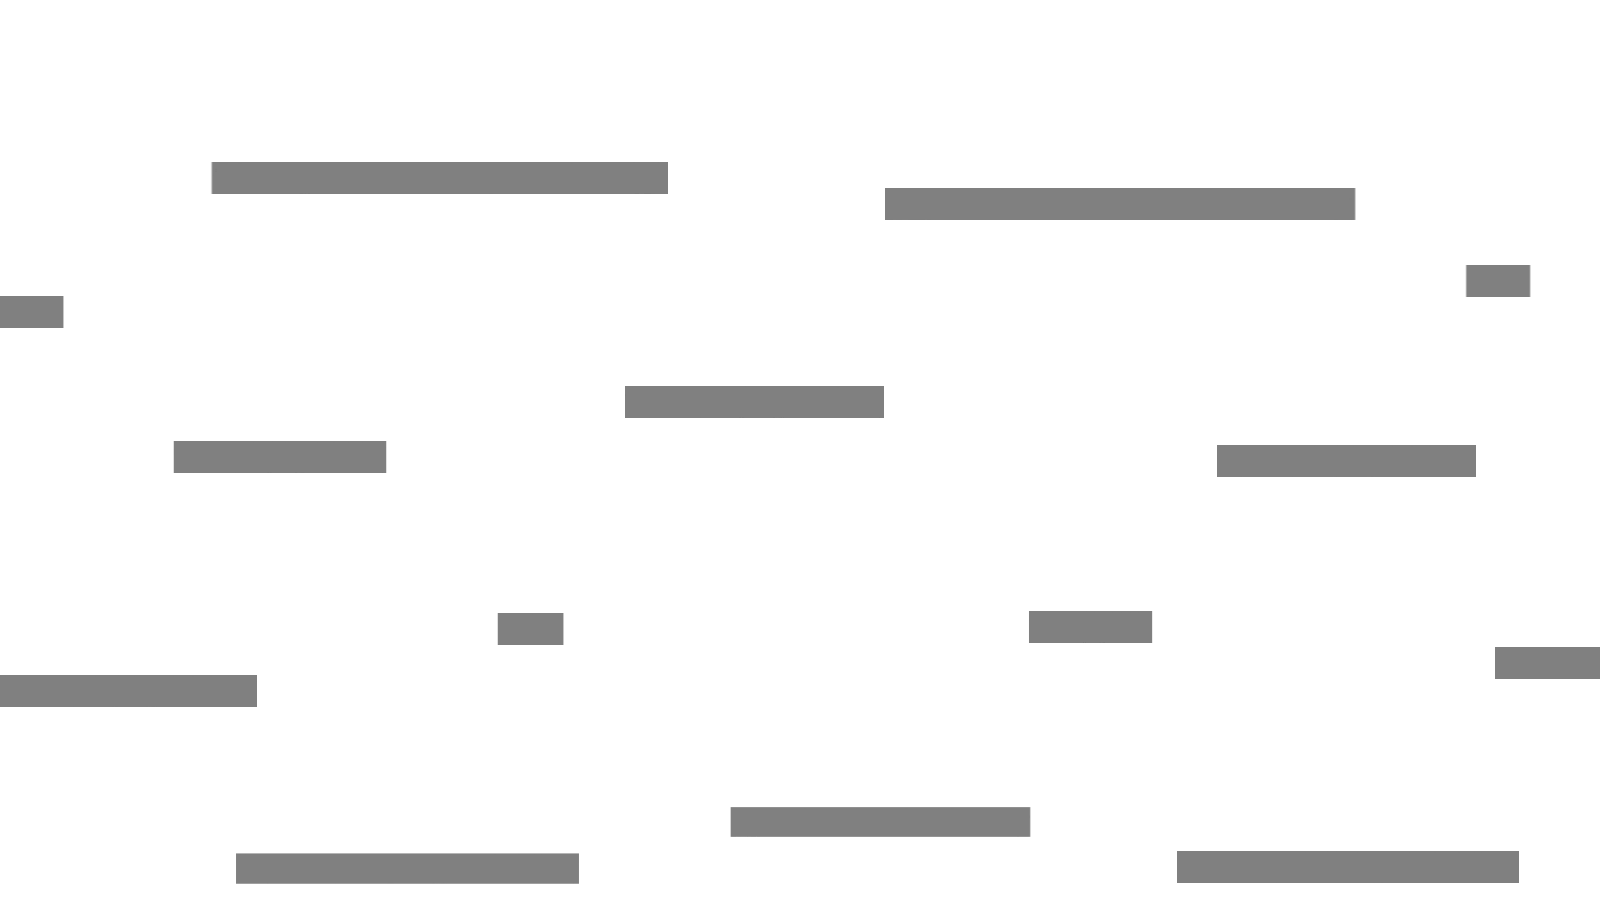
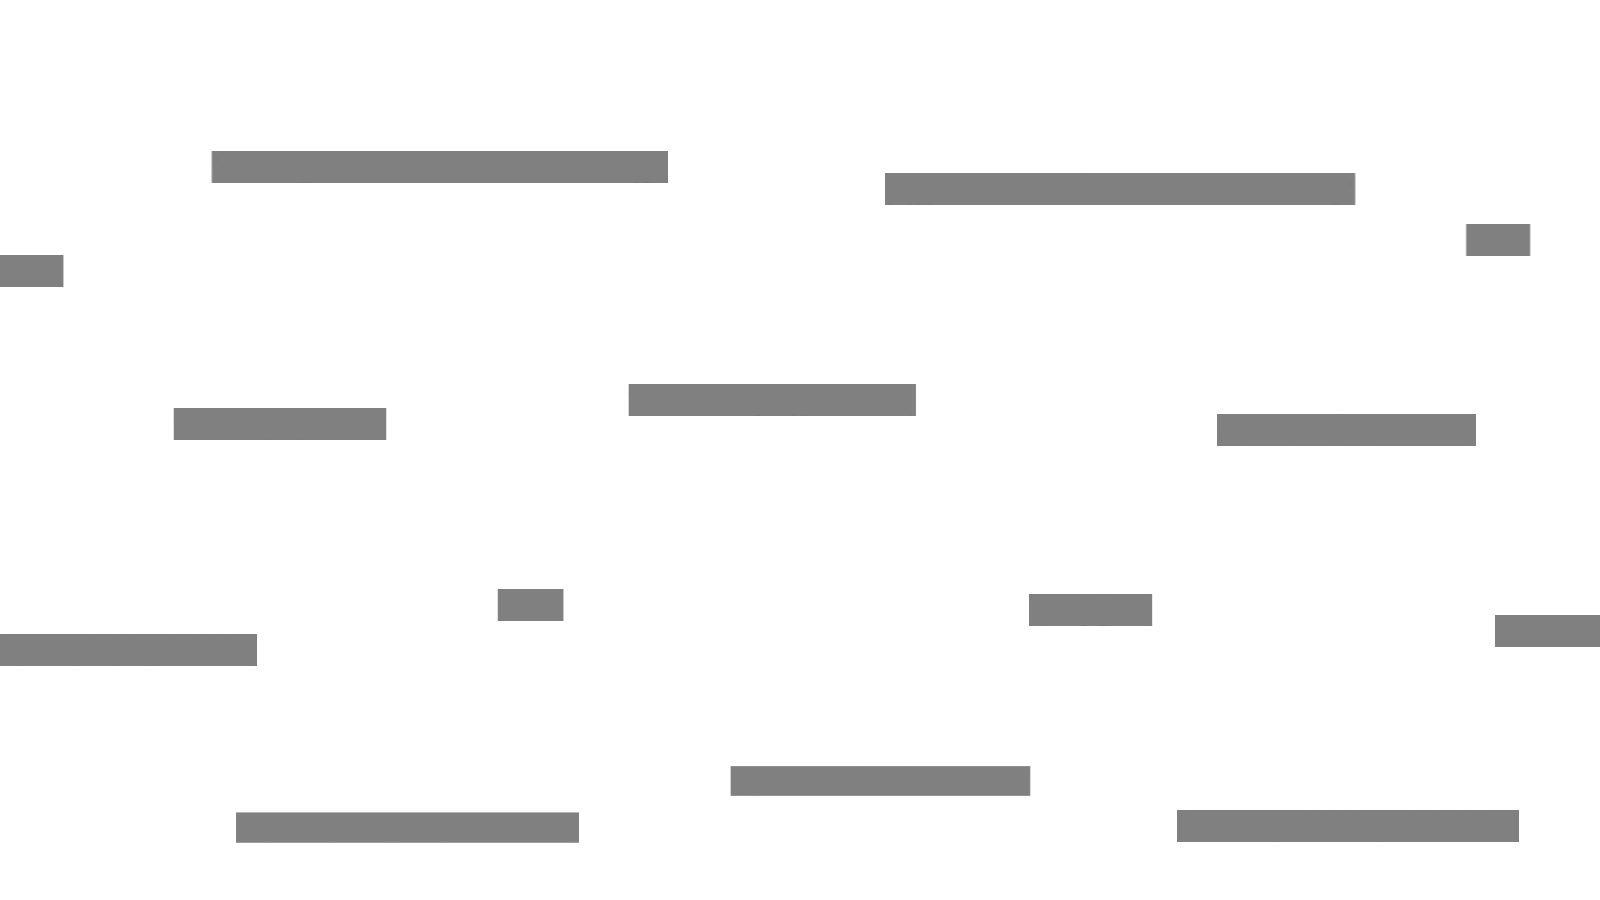
Feature: basicmap reworked, Menu reworked

diff --git a/src/menu/MenuSetup.py b/src/menu/MenuSetup.py
@@ -106,16 +106,6 @@ class MenuSetup:
 
     def load_main_frame(self):
         # -------------------------------------------  MainFrame  -------------------------------------------
-
-        # Hintergrundbild
-        background_image = tk.CTkImage(dark_image=Image.open(wrk_dir + r"\..\basicmap\solid\basic_map_structures.png"),
-                                       size=(self.window_width, self.window_height))
-        # noinspection PyTypeChecker
-        label_background = tk.CTkLabel(master=self.main_frame,
-                                       text=None,
-                                       image=background_image)
-        label_background.place(x=0, y=0)
-
         # Game Name Label
         game_name_image = tk.CTkImage(dark_image=Image.open(wrk_dir + r"\..\stick_wars_schriftzug.png"),
                                       size=(int(1225 * self.sizing_width * 0.9), int(164 * self.sizing_height * 0.9)))
@@ -139,10 +129,20 @@ class MenuSetup:
                                    justify='left')
 
     def load_interaction_frame(self):
-        self.interaction_frame = MyFrame(master=self.root, width=int(self.window_width),
-                                         height=int(280 * self.sizing_height),
+        self.interaction_frame = MyFrame(master=self.root,
+                                         width=self.root.window_width,
+                                         height=int(730 * self.sizing_height),
                                          fg_color="#212121")
-        self.interaction_frame.place(anchor='center', x=self.window_width / 2, y=self.window_height * 0.45)
+        self.interaction_frame.place(anchor='sw', x=0, y=self.window_height)
+
+        # Hintergrundbild
+        background_image = tk.CTkImage(dark_image=Image.open(wrk_dir + r"\..\basicmap\solid\basic_map_structures.png"),
+                                       size=(self.window_width, self.window_height))
+        # noinspection PyTypeChecker
+        label_background = tk.CTkLabel(master=self.interaction_frame,
+                                       text=None,
+                                       image=background_image)
+        label_background.place(x=0, y=self.root.window_height*self.sizing_height+40, anchor="sw")
 
         # Session ID Eingabefeld
         self.entry_session_id = MyEntry(master=self.interaction_frame,
@@ -151,7 +151,7 @@ class MenuSetup:
                                         height=self.h,
                                         font=("None", self.h * 0.5),
                                         corner_radius=self.h / 3)
-        self.entry_session_id.place(relx=0.5, rely=0.0, anchor='n')
+        self.entry_session_id.place(relx=0.47, rely=0.1, anchor='n')
         self.root.update()
 
         # Create 'Play/Start Button'
@@ -334,11 +334,9 @@ class MenuSetup:
     # __________________command: Functions__________________
 
     def start_new_session(self):
-        self.clear_frame_sliding(widget_list=[self.interaction_frame,
-                                              self.main_frame.winfo_children()[0]],
-                                 direction_list=["up",
-                                                 "down"],
-                                 after_time=2400,
+        self.clear_frame_sliding(widget_list=[self.interaction_frame],
+                                 direction_list=["down"],
+                                 after_time=1500,
                                  func=lambda: self.load_choose_map_frame())
 
     def create_lobby(self, map_name):
@@ -347,24 +345,22 @@ class MenuSetup:
                            success_func=lambda: self.clear_frame_sliding(
                                widget_list=[self.choose_map_frame],
                                direction_list=["down"],
-                               stepsize=7,
-                               after_time=2500,
+                               # stepsize=7,
+                               after_time=1200,
                                func=lambda: self.load_lobby_frame(),
                                func2=lambda: self.check_if_game_started(),
-                               func3=lambda: self.main_frame.after(3000, lambda: self.update_player())))
+                               func3=lambda: self.main_frame.after(1700, lambda: self.update_player())))
 
     def join_lobby(self):
         self.start_network(argument=self.entry_session_id.get(),  # type:ignore[union-attr]
                            update_func=lambda: self.update_background_process(),
                            success_func=lambda: self.clear_frame_sliding(
-                               widget_list=[self.interaction_frame,
-                                            self.main_frame.winfo_children()[0]],
-                               direction_list=["up",
-                                               "down"],
-                               after_time=2400,
+                               widget_list=[self.interaction_frame],
+                               direction_list=["down"],
+                               after_time=1200,
                                func=lambda: self.load_lobby_frame(),
                                fun2=lambda: self.check_if_game_started(),
-                               func3=lambda: self.main_frame.after(3000, lambda: self.update_player())))
+                               func3=lambda: self.main_frame.after(1700, lambda: self.update_player())))
 
     def start_game(self):
         self.conn1.send("start")  # type:ignore[attr-defined]
@@ -388,7 +384,7 @@ class MenuSetup:
     def clear_frame_sliding(self,
                             widget_list: list['MyLabel|tk.CTkButton|MyFrame'],
                             direction_list: list[str],
-                            stepsize: int = 5,
+                            stepsize: int = 8,
                             after_time: int = 2000,
                             func: Optional[Union[Callable, None]] = None,  # type:ignore[type-arg]
                             **kwargs: Optional[Union[Callable, None]]) -> None:  # type:ignore[type-arg]

diff --git a/src/menu/MyWindow.py b/src/menu/MyWindow.py
@@ -46,7 +46,7 @@ class MyWindow(tk.CTk):
     def move_out_of_window(self,
                            widget_list: list['MyFrame|MyLabel'],
                            direction_list: list[str],
-                           delay: int = 20,
+                           delay: int = 17,
                            stepsize: int = 1,
                            anchor: str = tk.NW) -> None:
         """
@@ -107,4 +107,4 @@ class MyWindow(tk.CTk):
                                                                         delay,
                                                                         stepsize,
                                                                         anchor))
-        # self.update()
+        self.update()
